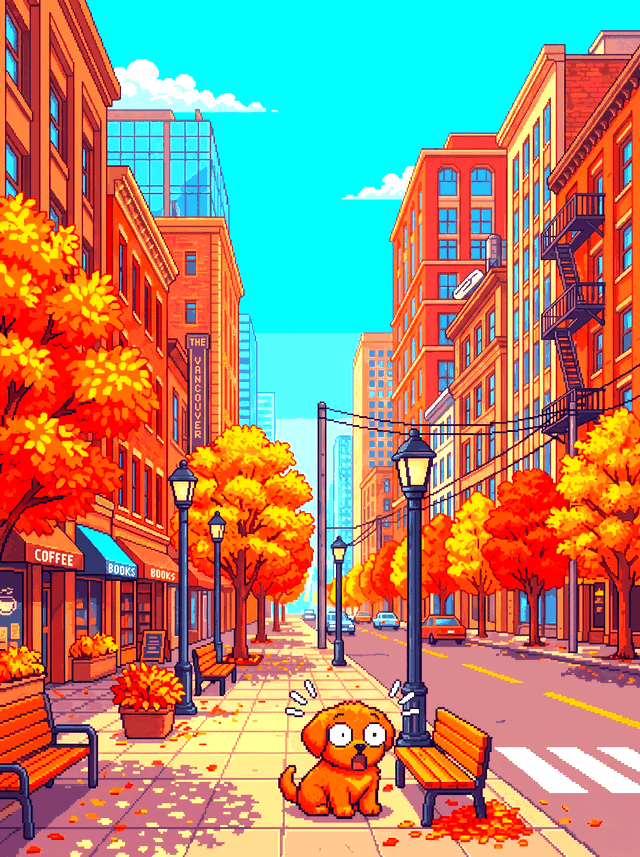
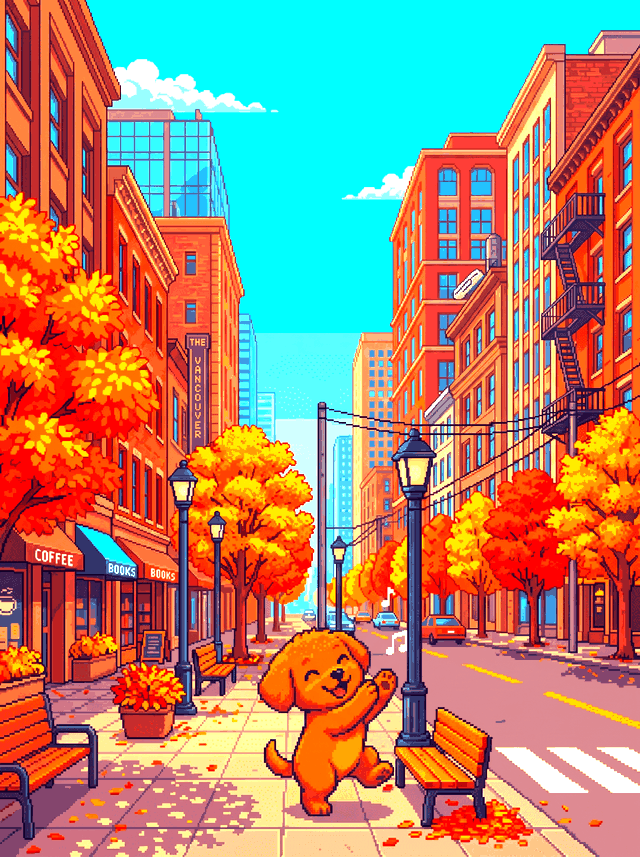
피버 중 배경 동물이 8비트 춤(두 자세 교대), 피버 아이템 확대·반짝임, 피버 후 2.5초 무적

diff --git a/game.js b/game.js
@@ -14,6 +14,8 @@
   const INVULN = 0.8;         // 피격 후 무적 시간(초)
   const FEVER = 5;            // 피버타임 길이(초)
   const FEVER_EVERY = 11;     // 피버 아이템이 나오는 평균 간격(초)
+  const FEVER_GRACE = 2.5;    // 피버가 끝난 뒤 남는 무적 시간(초)
+  const DANCE_STEP = 0.2;     // 배경 동물 춤 프레임 간격(초) — 8비트 느낌으로 딱딱 끊기게
 
   // 시크릿 모드·일부 브라우저에서 localStorage 접근 자체가 예외를 던진다
   const store = {
@@ -97,15 +99,16 @@
     showOverlay('불러오는 중…', '', '');
     $('again').style.display = 'none';
     try {
-      const [bg, bgFever, player, feverIm, ...rest] = await Promise.all([
+      const [bg, bgFever, bgFever2, player, feverIm, ...rest] = await Promise.all([
         loadImage(`bg-${char.id}`),
-        loadImage(`bgf-${char.id}`),          // 피버 중에 쓰는 판 — 배경 동물이 놀란 표정
+        loadImage(`bgf-${char.id}`),          // 피버 중 춤 1번 자세
+        loadImage(`bgf2-${char.id}`),         // 피버 중 춤 2번 자세
         loadImage(`char-${char.id}`),
         loadImage(char.fever.img),
         ...HAZARDS.map(h => loadImage(h.img))
       ]);
       art = {
-        bg, bgFever, player,
+        bg, bgFever, bgFever2, player,
         hazards: HAZARDS.map((h, i) => ({ ...h, im: rest[i] })),
         fever: { ...char.fever, im: feverIm, good: true }
       };
@@ -118,7 +121,7 @@
     showOverlay(char.name,
       `${HAZARDS.map(h => h.name).join('과 ')}을 피하세요`,
       `목숨 ${LIVES}개 · 버틴 1초가 1점<br>` +
-      `${char.fever.name}을 먹으면 ${FEVER}초 피버타임 (무적 · 2배 점수)`);
+      `${char.fever.name}을 먹으면 ${FEVER}초 피버타임<br>무적 · 2배 점수 · 끝나고도 ${FEVER_GRACE}초 무적`);
     draw();
   }
 
@@ -203,7 +206,7 @@
   }
 
   function spawnFever() {
-    push(art.fever, 36 * k, 190 + Math.random() * 50, 0);
+    push(art.fever, 52 * k, 190 + Math.random() * 50, 0);   // 나쁜 것보다 확실히 크게
   }
 
   function hits(it) {
@@ -225,6 +228,9 @@
     if (invuln > 0) invuln -= dt;
     const wasFever = fever > 0;
     if (fever > 0) fever -= dt;
+    if (wasFever && fever <= 0) {
+      invuln = Math.max(invuln, FEVER_GRACE);   // 피버가 끝나도 잠깐은 안 맞는다
+    }
     if (wasFever !== (fever > 0)) Bgm.setFever(fever > 0);   // 곡 템포를 바꾼다
 
     feverTimer -= dt;
@@ -283,10 +289,35 @@
   function draw() {
     ctx.clearRect(0, 0, W, H);
     if (!art) return;
-    drawCover(fever > 0 && art.bgFever ? art.bgFever : art.bg);
+    if (fever > 0 && art.bgFever) {
+      // 두 자세를 딱딱 번갈아 → 8비트 게임처럼 끊기는 춤
+      const beat = Math.floor(elapsed / DANCE_STEP) % 2;
+      drawCover(beat && art.bgFever2 ? art.bgFever2 : art.bgFever);
+    } else {
+      drawCover(art.bg);
+    }
 
     for (const it of items) {
-      if (it.rot) {
+      if (it.kind.good) {
+        // 피버 아이템은 놓치면 안 되니까 눈에 띄게 — 반짝이는 후광 + 살짝 커졌다 작아졌다
+        const cx = it.x + it.w / 2, cy = it.y + it.h / 2;
+        const pulse = 1 + Math.sin(elapsed * 9) * 0.08;
+        ctx.save();
+        ctx.globalAlpha = 0.28 + 0.22 * (Math.sin(elapsed * 9) + 1) / 2;
+        ctx.fillStyle = '#ffe14d';
+        ctx.beginPath();
+        ctx.arc(cx, cy, it.w * 0.78 * pulse, 0, Math.PI * 2);
+        ctx.fill();
+        ctx.globalAlpha = 1;
+        ctx.strokeStyle = Math.floor(elapsed * 10) % 2 ? '#fff' : '#ffe14d';
+        ctx.lineWidth = 3 * k;
+        ctx.beginPath();
+        ctx.arc(cx, cy, it.w * 0.62 * pulse, 0, Math.PI * 2);
+        ctx.stroke();
+        ctx.restore();
+        const w2 = it.w * pulse, h2 = it.h * pulse;
+        ctx.drawImage(it.kind.im, cx - w2 / 2, cy - h2 / 2, w2, h2);
+      } else if (it.rot) {
         ctx.save();
         ctx.translate(it.x + it.w / 2, it.y + it.h / 2);
         ctx.rotate(it.rot);

diff --git a/index.html b/index.html
@@ -19,7 +19,7 @@
   html { background: #6fc3f0; }
   body {
     min-height: 100vh;
-    background: #8ecbe8 url('assets/bg-title.png?v=4') center top / cover no-repeat fixed;
+    background: #8ecbe8 url('assets/bg-title.png?v=5') center top / cover no-repeat fixed;
     color: #17263f;
     font-family: Galmuri, -apple-system, "Apple SD Gothic Neo", "Malgun Gothic", monospace;
     -webkit-user-select: none; user-select: none;
@@ -176,9 +176,9 @@
   <p id="tips">마우스나 손가락을 좌우로 움직여 피하세요</p>
 </section>
 
-<script>window.ASSET_V = '4';</script>
-<script src="bgm.js?v=4"></script>
-<script src="chars.js?v=4"></script>
-<script src="game.js?v=4"></script>
+<script>window.ASSET_V = '5';</script>
+<script src="bgm.js?v=5"></script>
+<script src="chars.js?v=5"></script>
+<script src="game.js?v=5"></script>
 </body>
 </html>
